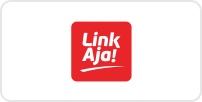
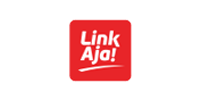
Add QRIS Payment

diff --git a/public/css/bootstrap.min.css b/public/css/bootstrap.min.css
@@ -22,6 +22,8 @@ color: #296d98 !important;
 }
 
  .btn-joran{color:#fff;background-color:#3792cb;border-color:#3792cb}.btn-joran:hover{color:#fff;background-color:#296d98;border-color:#296d98}.btn-joran.focus,.btn-joran:focus{box-shadow:0 0 0 .2rem rgba(38,143,255,.5)}.btn-joran.disabled,.btn-joran:disabled{color:#fff;background-color:#3792cb;border-color:#3792cb}.btn-joran:not(:disabled):not(.disabled).active,.btn-joran:not(:disabled):not(.disabled):active,.show>.btn-joran.dropdown-toggle{color:#fff;background-color:#296d98;border-color:#296d98}.btn-joran:not(:disabled):not(.disabled).active:focus,.btn-joran:not(:disabled):not(.disabled):active:focus,.show>.btn-joran.dropdown-toggle:focus{box-shadow:0 0 0 .2rem rgba(38,143,255,.5)}
+
+.btn-joran-default{color:#296d98;background-color:white;border-color:#3792cb}.btn-joran-default:hover{color:#fff;background-color:#296d98;border-color:#296d98}.btn-joran-default.focus,.btn-joran-default:focus{box-shadow:0 0 0 .2rem rgba(38,143,255,.5)}.btn-joran-default.disabled,.btn-joran-default:disabled{color:#fff;background-color:#3792cb;border-color:#3792cb}.btn-joran-default:not(:disabled):not(.disabled).active,.btn--default:not(:disabled):not(.disabled):active,.show>.btn-joran-default.dropdown-toggle{color:#fff;background-color:#296d98;border-color:#296d98}.btn-joran-default:not(:disabled):not(.disabled).active:focus,.btn-joran-default:not(:disabled):not(.disabled):active:focus,.show>.btn-joran-default.dropdown-toggle:focus{box-shadow:0 0 0 .2rem rgba(38,143,255,.5)}
  
  .btn-secondary{color:#fff;background-color:#6c757d;border-color:#6c757d}.btn-secondary:hover{color:#fff;background-color:#5a6268;border-color:#545b62}.btn-secondary.focus,.btn-secondary:focus{box-shadow:0 0 0 .2rem rgba(130,138,145,.5)}.btn-secondary.disabled,.btn-secondary:disabled{color:#fff;background-color:#6c757d;border-color:#6c757d}.btn-secondary:not(:disabled):not(.disabled).active,.btn-secondary:not(:disabled):not(.disabled):active,.show>.btn-secondary.dropdown-toggle{color:#fff;background-color:#545b62;border-color:#4e555b}.btn-secondary:not(:disabled):not(.disabled).active:focus,.btn-secondary:not(:disabled):not(.disabled):active:focus,.show>.btn-secondary.dropdown-toggle:focus{box-shadow:0 0 0 .2rem rgba(130,138,145,.5)}.btn-success{color:#fff;background-color:#28a745;border-color:#28a745}.btn-success:hover{color:#fff;background-color:#218838;border-color:#1e7e34}.btn-success.focus,.btn-success:focus{box-shadow:0 0 0 .2rem rgba(72,180,97,.5)}.btn-success.disabled,.btn-success:disabled{color:#fff;background-color:#28a745;border-color:#28a745}.btn-success:not(:disabled):not(.disabled).active,.btn-success:not(:disabled):not(.disabled):active,.show>.btn-success.dropdown-toggle{color:#fff;background-color:#1e7e34;border-color:#1c7430}.btn-success:not(:disabled):not(.disabled).active:focus,.btn-success:not(:disabled):not(.disabled):active:focus,.show>.btn-success.dropdown-toggle:focus{box-shadow:0 0 0 .2rem rgba(72,180,97,.5)}.btn-info{color:#fff;background-color:#17a2b8;border-color:#17a2b8}.btn-info:hover{color:#fff;background-color:#138496;border-color:#117a8b}.btn-info.focus,.btn-info:focus{box-shadow:0 0 0 .2rem rgba(58,176,195,.5)}.btn-info.disabled,.btn-info:disabled{color:#fff;background-color:#17a2b8;border-color:#17a2b8}.btn-info:not(:disabled):not(.disabled).active,.btn-info:not(:disabled):not(.disabled):active,.show>.btn-info.dropdown-toggle{color:#fff;background-color:#117a8b;border-color:#10707f}.btn-info:not(:disabled):not(.disabled).active:focus,.btn-info:not(:disabled):not(.disabled):active:focus,.show>.btn-info.dropdown-toggle:focus{box-shadow:0 0 0 .2rem rgba(58,176,195,.5)}.btn-warning{color:#212529;background-color:#ffc107;border-color:#ffc107}.btn-warning:hover{color:#212529;background-color:#e0a800;border-color:#d39e00}.btn-warning.focus,.btn-warning:focus{box-shadow:0 0 0 .2rem rgba(222,170,12,.5)}.btn-warning.disabled,.btn-warning:disabled{color:#212529;background-color:#ffc107;border-color:#ffc107}.btn-warning:not(:disabled):not(.disabled).active,.btn-warning:not(:disabled):not(.disabled):active,.show>.btn-warning.dropdown-toggle{color:#212529;background-color:#d39e00;border-color:#c69500}.btn-warning:not(:disabled):not(.disabled).active:focus,.btn-warning:not(:disabled):not(.disabled):active:focus,.show>.btn-warning.dropdown-toggle:focus{box-shadow:0 0 0 .2rem rgba(222,170,12,.5)}.btn-danger{color:#fff;background-color:#dc3545;border-color:#dc3545}.btn-danger:hover{color:#fff;background-color:#c82333;border-color:#bd2130}.btn-danger.focus,.btn-danger:focus{box-shadow:0 0 0 .2rem rgba(225,83,97,.5)}.btn-danger.disabled,.btn-danger:disabled{color:#fff;background-color:#dc3545;border-color:#dc3545}.btn-danger:not(:disabled):not(.disabled).active,.btn-danger:not(:disabled):not(.disabled):active,.show>.btn-danger.dropdown-toggle{color:#fff;background-color:#bd2130;border-color:#b21f2d}.btn-danger:not(:disabled):not(.disabled).active:focus,.btn-danger:not(:disabled):not(.disabled):active:focus,.show>.btn-danger.dropdown-toggle:focus{box-shadow:0 0 0 .2rem rgba(225,83,97,.5)}.btn-light{color:#212529;background-color:#f8f9fa;border-color:#f8f9fa}.btn-light:hover{color:#212529;background-color:#e2e6ea;border-color:#dae0e5}.btn-light.focus,.btn-light:focus{box-shadow:0 0 0 .2rem rgba(216,217,219,.5)}.btn-light.disabled,.btn-light:disabled{color:#212529;background-color:#f8f9fa;border-color:#f8f9fa}.btn-light:not(:disabled):not(.disabled).active,.btn-light:not(:disabled):not(.disabled):active,.show>.btn-light.dropdown-toggle{color:#212529;background-color:#dae0e5;border-color:#d3d9df}.btn-light:not(:disabled):not(.disabled).active:focus,.btn-light:not(:disabled):not(.disabled):active:focus,.show>.btn-light.dropdown-toggle:focus{box-shadow:0 0 0 .2rem rgba(216,217,219,.5)}.btn-dark{color:#fff;background-color:#343a40;border-color:#343a40}.btn-dark:hover{color:#fff;background-color:#23272b;border-color:#1d2124}.btn-dark.focus,.btn-dark:focus{box-shadow:0 0 0 .2rem rgba(82,88,93,.5)}.btn-dark.disabled,.btn-dark:disabled{color:#fff;background-color:#343a40;border-color:#343a40}.btn-dark:not(:disabled):not(.disabled).active,.btn-dark:not(:disabled):not(.disabled):active,.show>.btn-dark.dropdown-toggle{color:#fff;background-color:#1d2124;border-color:#171a1d}.btn-dark:not(:disabled):not(.disabled).active:focus,.btn-dark:not(:disabled):not(.disabled):active:focus,.show>.btn-dark.dropdown-toggle:focus{box-shadow:0 0 0 .2rem rgba(82,88,93,.5)}.btn-outline-primary{color:#007bff;border-color:#007bff}.btn-outline-primary:hover{color:#fff;background-color:#007bff;border-color:#007bff}.btn-outline-primary.focus,.btn-outline-primary:focus{box-shadow:0 0 0 .2rem rgba(0,123,255,.5)}.btn-outline-primary.disabled,.btn-outline-primary:disabled{color:#007bff;background-color:transparent}.btn-outline-primary:not(:disabled):not(.disabled).active,.btn-outline-primary:not(:disabled):not(.disabled):active,.show>.btn-outline-primary.dropdown-toggle{color:#fff;background-color:#007bff;border-color:#007bff}.btn-outline-primary:not(:disabled):not(.disabled).active:focus,.btn-outline-primary:not(:disabled):not(.disabled):active:focus,.show>.btn-outline-primary.dropdown-toggle:focus{box-shadow:0 0 0 .2rem rgba(0,123,255,.5)}.btn-outline-secondary{color:#6c757d;border-color:#6c757d}.btn-outline-secondary:hover{color:#fff;background-color:#6c757d;border-color:#6c757d}
  

diff --git a/src/components/checkout/CheckoutPage.js b/src/components/checkout/CheckoutPage.js
@@ -27,6 +27,7 @@ import sideNotification from '../../commons/sideNotification';
 import * as services from './services/service';
 import { showEWalletModal, showTransferModal, showCreditCardModal } from '../../config/redux/action/payment';
 import baseUrl from '../../config/baseUrl';
+import { QRModal } from './components/Modals/QRModal';
 
 const { Panel } = Collapse;
 
@@ -42,6 +43,7 @@ const CheckoutPage = props => {
     const [membershipRecord, setMembershipRecord] = useState({})
     const [totalPrice, setTotalPrice] = useState(0);
     const [customerDetails, setCustomerDetails] = useState({});
+    const [qrCodeString, setQrCodeString] = useState("");
    
     const [loading, setLoading] = useState({
         isSummaryLoading: true,
@@ -49,7 +51,8 @@ const CheckoutPage = props => {
     });
     const [modal, setModal] = useState({
         eWalletModal: false,
-        transferModalShow: false
+        transferModalShow: false,
+        qrModalShow: false
     });
                                         
     const handlePaymentTypeChange = e => {
@@ -161,9 +164,44 @@ const CheckoutPage = props => {
             setModal({...modal, eWalletModal: true})
         } else if (paymentType.toUpperCase() === "LINKAJA") {
             handleEWalletCharge(null);
+        } else if (paymentType.toUpperCase() === "QRIS") {
+            handleQRPayment();
         } else {
             sideNotification.open("Peringatan!", "Silahkan Pilih Tipe Pembayaran terlebih dahulu.", false)
         }
+    }
+
+    const handleQRPayment = async () => {
+        setLoading({...loading, isButtonPaymentLoading: true});
+
+        let amount = 0;
+        if (productCategory === "webinar") { 
+            amount = webinarRecord.price - webinarRecord.discount;
+        } else {
+            amount = membershipRecord.price * membershipRecord.duration;
+        }
+
+        amount = 1500;
+
+        services.CreateQRCode({
+            amount: amount,
+            product_name: productCategory,
+            record_id: recordId,
+        }).then(res => {
+            var r = res.data;
+            console.log(r);
+
+            if (r.status) {
+                setQrCodeString(r.data.qr_string);
+                setModal({...modal, qrModalShow: true});
+            } else {
+                sideNotification.open("Gagal", r.message, false);
+            }
+            
+            setLoading({...loading, isButtonPaymentLoading: false});
+        }).catch(res => {
+            setLoading({...loading, isButtonPaymentLoading: false});
+        });
     }
 
     const handleEWalletCharge = async (phoneNumber) => {
@@ -226,6 +264,7 @@ const CheckoutPage = props => {
                                                 <Image
                                                     className="mt-1"
                                                     width={item.width}
+                                                    style={{marginLeft: `${item.marginLeft}`}}
                                                     preview={false} 
                                                     src={item.img} />
                                             }
@@ -274,6 +313,13 @@ const CheckoutPage = props => {
                         setHide={() => setModal({...modal, eWalletModal: false})}
                         isSubmitLoading={loading.isButtonPaymentLoading} 
                         handleCharge={handleEWalletCharge}/>
+
+                        
+                    <QRModal 
+                        isModalShow={modal.qrModalShow}
+                        setHide={() => setModal({...modal, qrModalShow: false})}
+                        qrString={qrCodeString}
+                        />
 
                     <Row>
                         <Col sm="12" className="mt-3 mb-4">

diff --git a/src/components/checkout/components/Modals/QRModal.js b/src/components/checkout/components/Modals/QRModal.js
@@ -1,0 +1,59 @@
+import React, { Fragment, useState, useEffect } from 'react'
+import { Modal, Image } from 'antd';
+
+import IframeComm from 'react-iframe-comm';
+
+import validate from '../../../../commons/validate';
+import "./style.css"
+var QRCode = require('qrcode.react');
+
+export function QRModal({isModalShow, setHide, qrString, isSubmitLoading}){
+    useEffect(() => {
+    }, []);
+
+    return (
+        <Fragment>
+            <Modal 
+                title="Pembayaran menggunakan QRIS" 
+                centered
+                visible={isModalShow}
+                // visible={true}
+                onCancel={setHide}
+                footer={null}
+                >
+                <div className="mt-0">
+                    <Image
+                        id="qris-header"
+                        preview={false}
+                        src="/assets/img/payment/qris-icon.png"
+                    />
+                    <Image
+                        id="gpn-header"
+                        preview={false}
+                        src="/assets/img/payment/gpn-icon.png"
+                    />
+                </div>
+                <div className="mt-0 text-center" id="payment-information">
+                    <img src="/assets/img/logo.png" id="joranvest-logo" />
+                </div>
+                <div className="mt-0 text-center">
+                    
+                    {/* <IframeComm
+                        attributes={{
+                            src: qrString,
+                            width: "100%",
+                            height: "450px",
+                            frameBorder: 0,
+                        }}
+                        //handleReady={onReady}
+                        //handleReceiveMessage={onReceiveMessage}
+                    /> */}
+                    <QRCode value={qrString || "putraops@gmail.com"} />
+                </div>
+                <div className="mt-3 text-center">
+                    <p id="qris-footer">SATU QRIS UNTUK SEMUA</p>
+                </div>
+            </Modal>
+        </Fragment>
+    );
+}

diff --git a/src/components/auth/components/LoginForm.js b/src/components/auth/components/LoginForm.js
@@ -8,6 +8,12 @@ import { userLogin, userLoginWithGoogle, actionFormUpdate } from '../../../confi
 import baseUrl from '../../../config/baseUrl';
 import Logo from './Logo';
 
+import '../css/auth.css';
+
+import { 
+    GoogleOutlined 
+} from '@ant-design/icons';
+
 const LoginForm = (props) => {
     const { errorMessage, isLoading } = props;
 
@@ -25,6 +31,10 @@ const LoginForm = (props) => {
             console.log(errorMessage);
         }
     }
+
+    // const handleLoginWithGoogle = () => {
+    //     props.userLoginWithGoogle({});
+    // }
 
     const ValidationSchema = Yup.object().shape({
         email: Yup.string()
@@ -81,6 +91,18 @@ const LoginForm = (props) => {
                     </Form>
                 )}
             </Formik>
+            {/* <button type="button" 
+                className="btn btn-joran-default btn-block btn-joran mt-2 p-2 pr-4 pl-4 no-radius"
+                onClick={handleLoginWithGoogle}
+                disabled={isLoading}>
+                {isLoading ? 
+                    <span><span className="spinner-border spinner-border-sm mr-2" role="status" aria-hidden="true"></span>Loading...</span>
+                    : 
+                    <>
+                        <img id="google-icon" className="mr-2" src="/assets/img/google-icon.png" /> <span>Login dengan GOOGLE</span>
+                    </>
+                }
+            </button> */}
             <Divider className="mt-2 mb-2" plain><a href="/reset-password" className="text-joran fw-500">Lupa password?</a></Divider>
         </Fragment>
     );

diff --git a/src/components/Footer.js b/src/components/Footer.js
@@ -41,7 +41,7 @@ class Footer extends React.Component {
                         <div className="container">
                             <div className="row">
                                 <div className="col-lg-12 text-center">
-                                    <p className="copyright text-white f-14 font-weight-light mb-0"> {new Date().getFullYear()} copyright © 2021. PT Risambessy Konsultindo Mandiri</p>
+                                    <p className="copyright text-white f-14 font-weight-light mb-0">copyright © {new Date().getFullYear()}. PT Risambessy Konsultindo Mandiri</p>
                                 </div>
                             </div>
                         </div>

diff --git a/src/components/checkout/payment-method.js b/src/components/checkout/payment-method.js
@@ -21,12 +21,21 @@ const eWallet = [
         value: "OVO",
         img: "assets/img/payment/p-ovo-borderless.png",
         width: 90,
+        marginLeft: "0px"
     },
     {
         name: "LinkAja",
         value: "LINKAJA",
-        img: "assets/img/payment/p-linkaja-borderless.png",
+        img: "assets/img/payment/p-linkaja.png",
         width: 90,
+        marginLeft: "0px"
+    },
+    {
+        name: "",
+        value: "QRIS",
+        img: "assets/img/payment/p-qris.png",
+        width: 80,
+        marginLeft: "25px"
     }
 ]
 

diff --git a/src/components/checkout/components/Modals/style.css b/src/components/checkout/components/Modals/style.css
@@ -1,0 +1,34 @@
+#qris-header {
+    width: 50%;
+    position: absolute;
+    /* top: 0;
+    left: 0; */
+}
+
+#gpn-header {
+    width: 100px;
+    position: absolute;
+    right: 0;
+    margin-right: 20px;
+}
+
+#payment-information {
+    margin-top: 100px !important;
+}
+
+#joranvest-logo {
+    width: 200px;
+    height: auto;
+    margin-bottom: 30px;
+}
+
+canvas {
+    width: 60% !important;
+    height: auto !important;
+    border: 4px solid black !important;
+    padding: 4px;
+}
+
+#qris-footer {
+    font-weight: 700;
+}

diff --git a/src/components/membership/components/Pricing.js b/src/components/membership/components/Pricing.js
@@ -39,7 +39,7 @@ class Pricing extends React.Component {
        
         return (
             <React.Fragment>
-                <Row id="joranvest-pricing">
+                <Row id="joranvest-pricing" className="pb-5">
                     <Skeleton active={true} loading={isSkeletionPricing} paragraph={true} row="5">
                         {pricings.map((item, index) => {
                             return  <Col xs="12" sm="6" md="6" lg="4" xl="3" key={index}>

diff --git a/src/components/PricingSection.js b/src/components/PricingSection.js
@@ -14,7 +14,7 @@ class PricingSection extends React.Component {
     render() {
         return (
             <React.Fragment>
-                <section className="section bg-about bg-light-about bg-light" id="pricing">
+                <section className="section bg-about bg-light-about bg-light pb-5" id="pricing">
                     <div className="container">
                         <Row>
                             <Col lg="12">

diff --git a/src/components/ClientSection.js b/src/components/ClientSection.js
@@ -40,7 +40,7 @@ class ClientSection extends React.Component {
         return (
             <React.Fragment>
 
-                <section className="section bg-clients" id="clients">
+                <section className="section bg-clients pb-5 mb-5" id="clients">
                     <div className="bg-overlay"></div>
                     <div className="container">
                         <div className="row">

diff --git a/src/components/checkout/services/service.js b/src/components/checkout/services/service.js
@@ -18,6 +18,10 @@ export async function CreateEWalletPayment(payload){
     return axiosApi.post(`/payment/createEWalletPayment`, payload);
 }
 
+export async function CreateQRCode(payload){
+    return axiosApi.post(`/payment/createQRCode`, payload);
+}
+
 export function getEWalletPaymentStatusByReferenceId(id) {
     return axiosApi.get(`/payment/getEWalletPaymentStatusByReferenceId/${id}`);
 }

diff --git a/src/components/auth/css/auth.css b/src/components/auth/css/auth.css
@@ -10,3 +10,7 @@
     font-weight: 700;
     font-size: 1.5em;
 }
+
+#google-icon {
+    width: 15px;
+}
